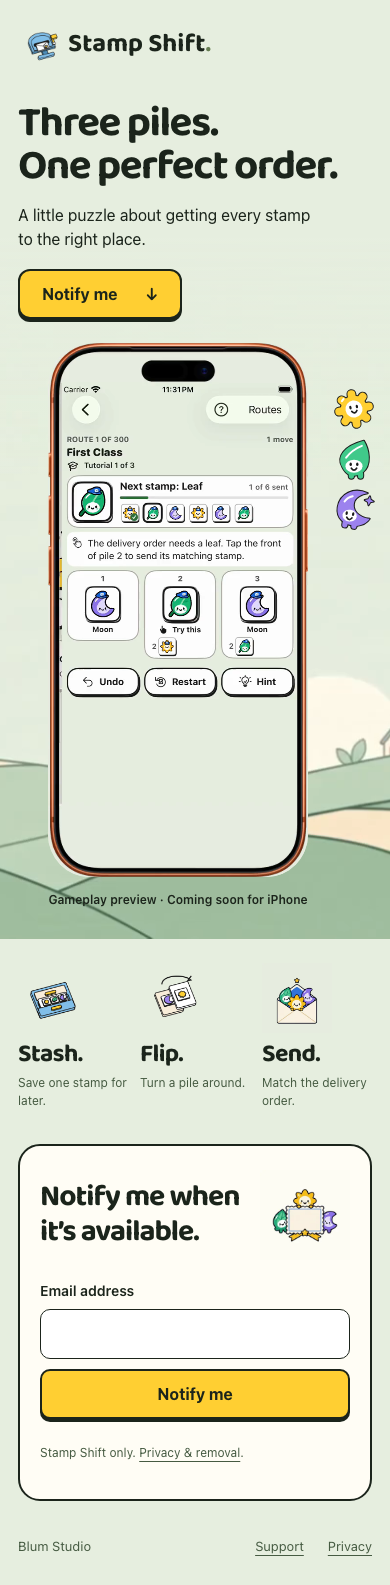
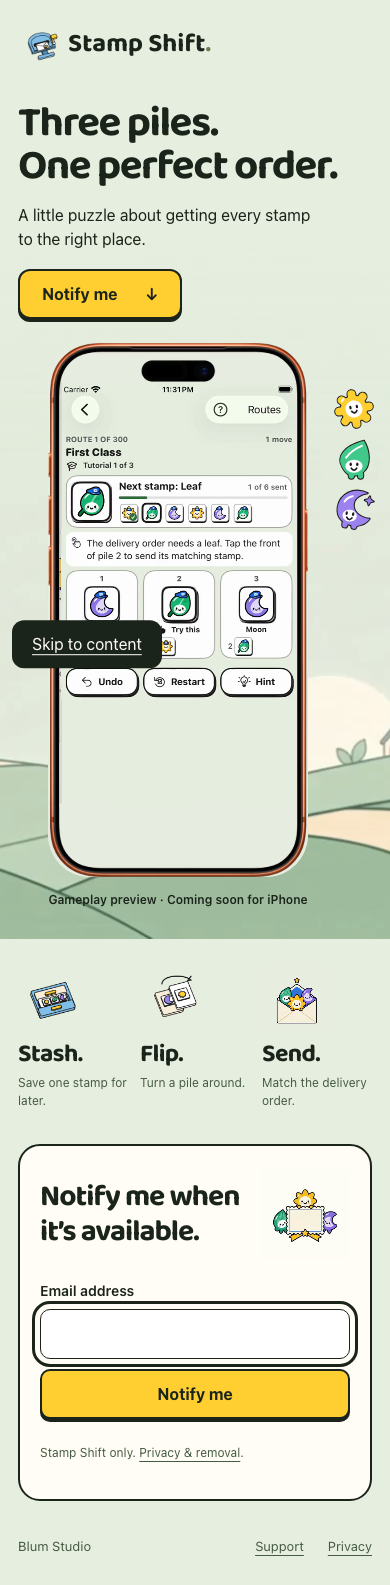
Fix persona QA findings in signup focus and purchase help

diff --git a/tests/e2e/app-docs.spec.ts b/tests/e2e/app-docs.spec.ts
@@ -89,3 +89,13 @@ test(`the ${width}px phone layout stays readable and visible motion plays by def
   expect(await page.evaluate(() => document.documentElement.scrollWidth <= innerWidth)).toBe(true);
 });
 }
+
+test('support explains current pack ownership and build-specific analytics', async ({ page }) => {
+  await page.goto('/apps/stamp-shift/support');
+  await page.getByText('What does Extra Routes include?', { exact:true }).click();
+  await expect(page.getByText(/Evening Post unlocks routes 31–60/)).toBeVisible();
+  await expect(page.getByText(/earlier purchases are not credited/)).toBeVisible();
+  await page.getByText('Can I play without an account?', { exact:true }).click();
+  await expect(page.getByText(/whether purchase analytics are enabled in your build/)).toBeVisible();
+  await expect(page.getByText('The current launch build has purchase analytics disabled.')).toHaveCount(0);
+});

diff --git a/src/scripts/waitlist.ts b/src/scripts/waitlist.ts
@@ -9,6 +9,9 @@ export function setupWaitlist(element: Element): void {
   const endpoint = element.dataset.endpoint;
   if (!(fieldset instanceof HTMLFieldSetElement) || !(email instanceof HTMLInputElement) || !(website instanceof HTMLInputElement) || !(button instanceof HTMLButtonElement) || !status || !endpoint) return;
   fieldset.disabled = false;
+  document.querySelector('.hero-notify[href="#launch"]')?.addEventListener('click', () => {
+    requestAnimationFrame(() => email.focus({ preventScroll: true }));
+  });
   element.addEventListener('submit', async event => {
     event.preventDefault();
     if (fieldset.disabled || !element.reportValidity()) return;

diff --git a/tests/e2e/waitlist.spec.ts b/tests/e2e/waitlist.spec.ts
@@ -13,6 +13,8 @@ for (const width of [1280,390]) {
     await expect(page.getByRole('heading',{ name:'Notify me when it’s available.' })).toBeVisible();
     await expect(page.getByRole('checkbox')).toHaveCount(0);
     await expect(button).toBeEnabled();
+    await page.getByRole('link',{ name:'Notify me',exact:true }).click();
+    await expect(email).toBeFocused();
     await page.screenshot({ path:`docs/evidence/waitlist/fixture-initial-${width}.png`,fullPage:true });
     await button.click();
     await expect(email).toBeFocused();

diff --git a/docs/audits/launch-personas-2026-10-28.md b/docs/audits/launch-personas-2026-10-28.md
@@ -1,0 +1,53 @@
+# Stamp Shift launch QA — October28,2026
+
+Scope: the updated game landing, signup, directory, Support and Privacy, plus a separate native surface/source review. The website is a Decide/Learn surface with an Operate form. Preserve its existing sage/ivory/yellow, Baloo2, real gameplay and postal characters. Use the [existing design contract](../stamp-shift-landing-DESIGN.md); do not rebuild the layout to imitate a social post.
+
+## Source and method
+
+Read Ayush Soni's [original post](https://x.com/ayushsoni_io/status/2115322579187867898) in a real browser: decorative tags, italic words, Instrument Serif/negative kerning, excessive detail/dividers/shades, bordered containers, detailed diagrams, code breadcrumbs and section numbering are listed as design-slop indicators. The three visible replies repeat the list, mention microtrends and add overused monospace. The rest is hidden behind X login; no claim that the inaccessible replies were read. Firecrawl reported insufficient credits; browser retrieval succeeded for the accessible content. No research credits were purchased.
+
+These are subjective warning signs, not universal usability rules. Keep game borders that identify selectable stamps/tools and numbers that identify real piles/routes; preserve legal/accessibility/teaching/error information. No arbitrary removal of meaningful state, focus indicators or controls.
+
+Five independent agent personas used isolated real headless Chromium profiles, not personal browsing sessions. They are simulated reviewers, not human participants, and persona frequency is not a population estimate. Each starts from the landing page, follows real links/buttons and reaches the first web success (synthetic notification signup). Synthetic fixtures enforce the real app-specific request shape but do not prove production delivery/storage. Email is not actually sent. No live customer records, purchases, social posting or Apple status checks.
+
+The 375px mobile run uses a fresh touch context and CDP slow3G:400kbps download/upload (50,000bytes/sec) and400ms latency. This is Chromium emulation, not physical Safari or a real keyboard/radio.
+
+The native game cannot be installed from this prelaunch landing. Parent reviewed archived genuine QA captures of home, Drawer-ready, Flip-selected, settings, help, shop, restart and album, and current source for splash/tutorial/routes/board/help/shop/settings/rewards/completion. This is screenshot/source evidence, not five newly executed native journeys. Public landing→App Store installation→first delivery remains gated by an approved, released candidate. Native saves/simulators were not modified; no new native runtime behavior was warranted by this pass.
+
+## Evidence locations
+
+Local per-persona scripts, reports, raw logs and screenshots: `output/launch-qa-2026-10-28/{impatient,skeptic,mobile,literal,breaker}/` in this website worktree (ignored). Before/after runs must be preserved separately. Parent native review montage and exact archived sources: `/Users/jordan/projects/stamp-shift/build/evidence/launch-qa-2026-10-28/{native-review-sheet.png,native-review-sources.json}`. These are local evidence, not publicly hosted assets.
+
+## Design decisions
+
+No repeated badges, eyebrow labels, code breadcrumbs, gratuitous numbered marketing sections, decorative diagrams, generic indigo/serif/monospace restyling or feature-card grid were introduced. The short Stash/Flip/Send strip teaches actual actions. The bordered notification group is the one action boundary; game controls retain tactile outlines. Native tutorial/route numbering conveys progression. Existing legal text stays in Support/Privacy rather than added to the hero. Findings below focus on concrete failures and uncertainty, not deleting every visual treatment named in a tweet.
+
+## Combined findings, ranked by observed persona frequency
+
+| Rank | Finding | Personas observing it | Severity | One-pass repair / evidence |
+| --- | --- | --- | --- | --- |
+| 1 | Public purchase FAQ omitted Evening Post/Priority Post and overlap/no-credit terms present in native Help. | Skeptic:1/5 | Medium | Mirror native route ranges, permanence, inclusion and no-credit facts; retain localized price in app. [Before](../evidence/launch-qa/support-before.png), [after](../evidence/launch-qa/support-after.png). |
+| 2 | Support hardcoded analytics disabled even though native Help uses build-specific status. | Skeptic:1/5 | Low | Direct visitors to the actual build's Help & privacy status and conditional policy. Same support evidence. |
+| 3 | Hero Notify me scrolled to the form but left BODY focused. | Literal reader:1/5 | Low | After native anchor navigation, focus the email with preventScroll. [Before](../evidence/launch-qa/focus-before.png), [after](../evidence/launch-qa/focus-after.png). Browser DOM assertion verifies the focus change. |
+
+All three tie on frequency; severity breaks the tie. The other roles did not independently report these issues; do not relabel1/5 as5/5 just because the fix is shared. All five reached web signup on both passes. No first-pass functional blocker, layout overflow or uncaught script failure was found in these assigned journeys.
+
+## Fixed-build rerun
+
+| Persona | Actual rerun | Result / limit |
+| --- | --- | --- |
+| Impatient | Fresh isolated browser; first meaningful CTA→focused email→synthetic Saved. | Pass;0console/page/request failures. Existing synthetic email also verifies duplicate safety. |
+| Skeptic | Landing→Support FAQs→Privacy→directory→landing→Saved. | Pass; both original copy findings visibly resolved;0console/page/request failures. |
+| Mobile | Cold375x812 touch browser,400kbps each direction/400ms latency; CTA→focus→Saved. | Pass;4701.60ms script journey,531ms DOMContentLoaded; email/button visible,375px document width. Physical keyboard/Safari not established. |
+| Literal reader | Follow labels; assert #launch and INPUT#waitlist-email active, then Saved. | Pass; original focus finding resolved,0console/page errors. |
+| Breaker | Invalid input corpus, double submit, Back mid-flow,503 retry and10s timeout retry. | Pass; invalid values sent0POSTs, double click sent1POST, fresh503→200 and timeout→200 retries passed. Only expected local503/abort noise;0page errors. |
+
+These reruns demonstrate the scoped website fixes. They do not prove arbitrary user behavior, production email/storage, paid conversion, physical-device purchases or a fresh native full-app journey. Expected fixture503/timeout noise is distinct from uncaught page errors. Sparse or absent findings do not prove the entire product is defect-free.
+
+## Native audit outcome
+
+No new native runtime change is justified from this screenshot/source pass. Current Help/Shop already disclose the mini/full overlap and conditional analytics; the website was the stale side. The eight-view montage shows a consistent sage canvas, stamp/postal art, tactile targets and concise labels. Tutorial hints, restart loss warning, ownership/Restore and legal disclosures support real actions and are retained. Archived help/album/shop captures predate build13's celebration-only polish; they are not evidence of a new live run. Core board/save/purchase contracts and existing native release evidence remain unchanged.
+
+## Review and publication
+
+Correctness review traces the shared form setup, unchanged native-anchor fallback and focused desktop/mobile assertions. Security review separately confirms no backend/DB/key/permission/price change, no increased data scope, and synthetic-only audit writes. Local100unit cases, TypeScript,78normal browser journeys and3synthetic signup journeys pass. The signup suite asserts automatic focus at1280/390px; a support journey asserts current pack/analytics copy. Final diff Ponytail review found no remaining concrete correctness or security issue. CI status is recorded in the website PR. This batch adds no dependencies, animation spend, ads, tracking SDK or public availability claim. The unmerged website PR retains its required review gate; no approval bypass is inferred from this QA request.

diff --git a/docs/stamp-shift-landing-DESIGN.md b/docs/stamp-shift-landing-DESIGN.md
@@ -83,3 +83,5 @@ Submitting the clearly named notification form is the app-specific request; send
 ## Do's and Don'ts
 
 Generated ambiance and actual gameplay are separate assets. Motion loops silently by default without a pause control; offscreen/hidden-tab media pauses, and reduced motion/Save-Data use posters. Browser autoplay refusal leaves the poster. Reuse existing delivered/collection animations; no new generation. Posters must tell the same product story without video or JS. Lazy-load media only after poster/critical content; no new JS framework, animation package, 3D runtime or dependency. Use fun-isometric's existing authored motion/export family rather than inventing idle CSS wobbles. Generated animation should have a short coherent loop and stay below3MB where practical. Keep screenshot/clip provenance and budget receipts. Verify desktop/mobile, keyboard, reduced motion, no-JS, real form success/failure, and console before shipping.
+
+October28 persona audit: preserve intentional postal outlines and real pile/route numbering; no decorative labels, repeated subtitles or marketing section numbers. The hero notification link focuses the email field after native anchor navigation. Public Support mirrors native mini/full-pack overlap and conditional analytics disclosures.
